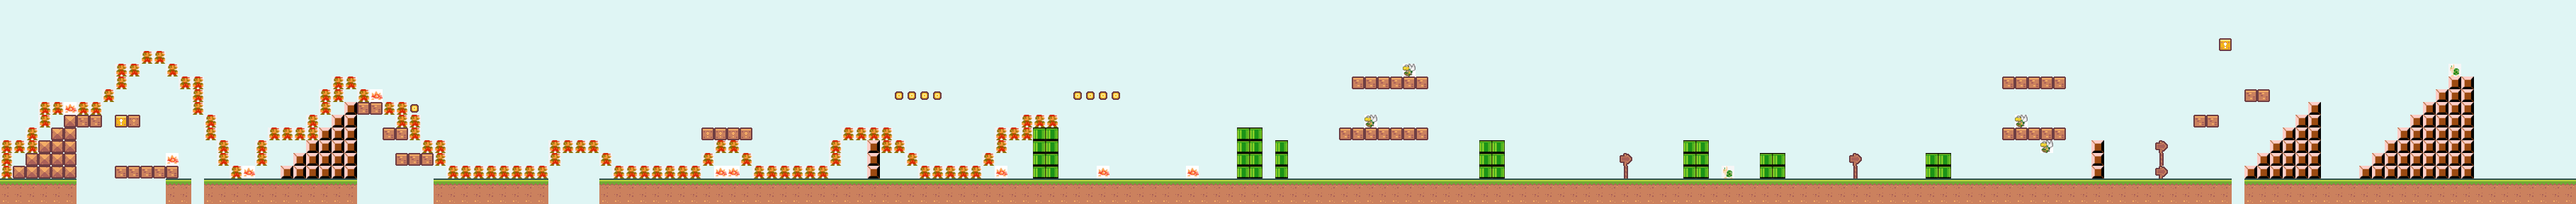
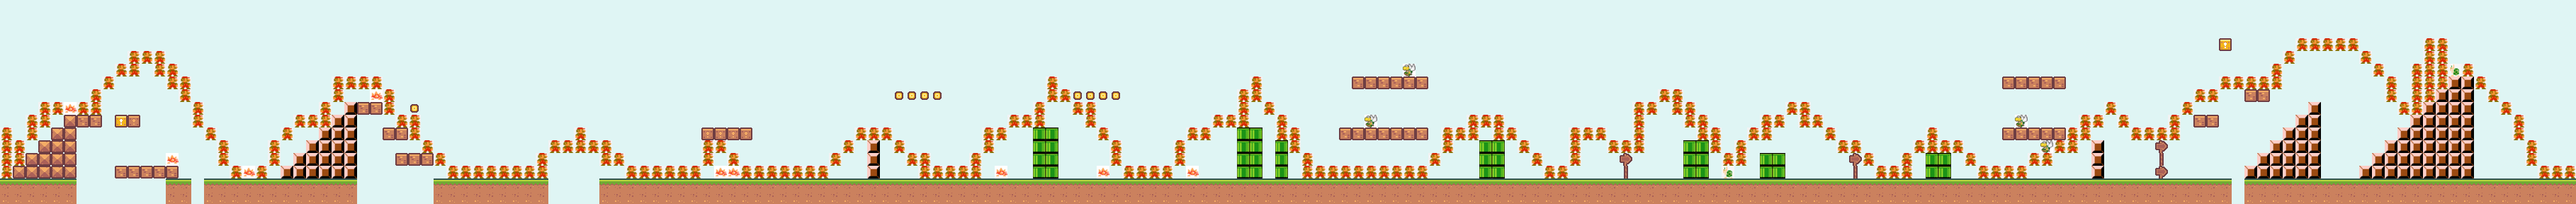
Worked on A* agent to improve them to beat some of the completionist levels. Also made completionist data for three of the speedrunner levels and evaluated the results comparing the paths

diff --git a/output/evaluate.py b/output/evaluate.py
@@ -11,7 +11,7 @@ def hamming_distance(string1, string2):
 
 
 def main():
-	for i in range(1, 3):
+	for i in range(1, 4):
 		print("Level %d"%(i))
 		file1string = 'speedrunner/lvl-%dpaths.txt'%(i)
 		file1 = open(file1string)
@@ -21,14 +21,22 @@ def main():
 		file2 = open(file2string)
 		string2 = file2.readlines()[0].strip('\n')
 
+		file3string = 'speedrunner/hum-%dpaths.txt'%(i)
+		file3 = open(file3string) 
+		string3 = file3.readlines()[0].strip('\n')
+
 		assert(len(string1) == len(string2))
+		assert(len(string2) == len(string3))
 
 		hd = hamming_distance(string1, string2)
 
-		print("Hamming Distance", hd)
+		#print("Hamming Distance", hd)
 		
-		ld = Levenshtein.distance(string1, string2)
-		print("Edit Distance", ld)
+		ld = Levenshtein.ratio(string1, string2)
+		print("Edit Distance Ratio Between Predicted Path and Speedrunner", ld)
+
+		ld2 = Levenshtein.ratio(string2, string3)
+		print("Edit Distance Ratio between Predicted Path and Completionist", ld2)
 
 
 

diff --git a/Mario-AI-Framework/src/visualize.py b/Mario-AI-Framework/src/visualize.py
@@ -58,12 +58,12 @@ visualization["%"] = "backgroundtile"
 
 level = {}
 
-directoryName = "../../output/completionist/"
+directoryName = "../../output/speedrunner/"
 #directoryName = "Data/Completionist/"
 #directoryName = "levels/original/"
 #directoryName = "Data/Speedrunner/"
 i = int(sys.argv[1])
-outputFileName = "lvl-%dpath"%(i)
+outputFileName = "hum-%dpath"%(i)
 #outputFileName = "output_0%dpath"%(i)
 
 with open(directoryName+outputFileName+".txt") as fp:

diff --git a/Mario-AI-Framework/src/pathToSnake.py b/Mario-AI-Framework/src/pathToSnake.py
@@ -6,9 +6,9 @@ def main():
 	#directory = "Data/Completionist/"
 	#directory = "Data/Speedrunner/"
 	#directory = "levels/original/"
-	directory = "../../output/completionist/"
+	directory = "../../output/speedrunner/"
 	i = int(sys.argv[1])
-	level = "lvl-%dpath"%(i)
+	level = "hum-%dpath"%(i)
 
 	# Load in the input path data as a 2d array and output it in a snake format in two different ways
 	source = directory+level+".txt"

diff --git a/Mario-AI-Framework/src/mergeLevelAndPath.py b/Mario-AI-Framework/src/mergeLevelAndPath.py
@@ -6,10 +6,10 @@ def main():
 
 	i = int(sys.argv[1])
 	#levelLocation = 'levels/original/'
-	levelLocation = '../../output/completionist/'
+	levelLocation = '../../output/speedrunner/'
 	#levelName = 'lvl-%d.txt'%(i)
 	levelName = 'output_0%dpath.txt'%(i)
-	levelName2 = 'lvl-%d.txt'%(i)
+	levelName2 = 'hum-%d.txt'%(i)
 	dataSource = 'completionist/'
 
 	with open(levelLocation+levelName) as fp:

diff --git a/Mario-AI-Framework/src/agents/robinBaumgarten/AStarTree.java b/Mario-AI-Framework/src/agents/robinBaumgarten/AStarTree.java
@@ -115,8 +115,8 @@ public class AStarTree {
     }
 
     public boolean[] optimise(MarioForwardModel model, MarioTimer timer) {
-        int planAhead = 2;
-        int stepsPerSearch = 2;
+        int planAhead = 3;
+        int stepsPerSearch = 3;
 
         MarioForwardModel originalModel = model.clone();
         ticksBeforeReplanning--;

diff --git a/Mario-AI-Framework/src/processPath.py b/Mario-AI-Framework/src/processPath.py
@@ -20,7 +20,7 @@ def main():
 				levelData[y][x] = 'x'
 
 	#folderName = "Data/Completionist/lvl-%d.txt"%(i)
-	folderName = "../../output/completionist/lvl-%d.txt"%(i)
+	folderName = "../../output/speedrunner/hum-%d.txt"%(i)
 	f = open(folderName, "w")
 	for i in range(maxHeight): 
 		level = levelData[i]
